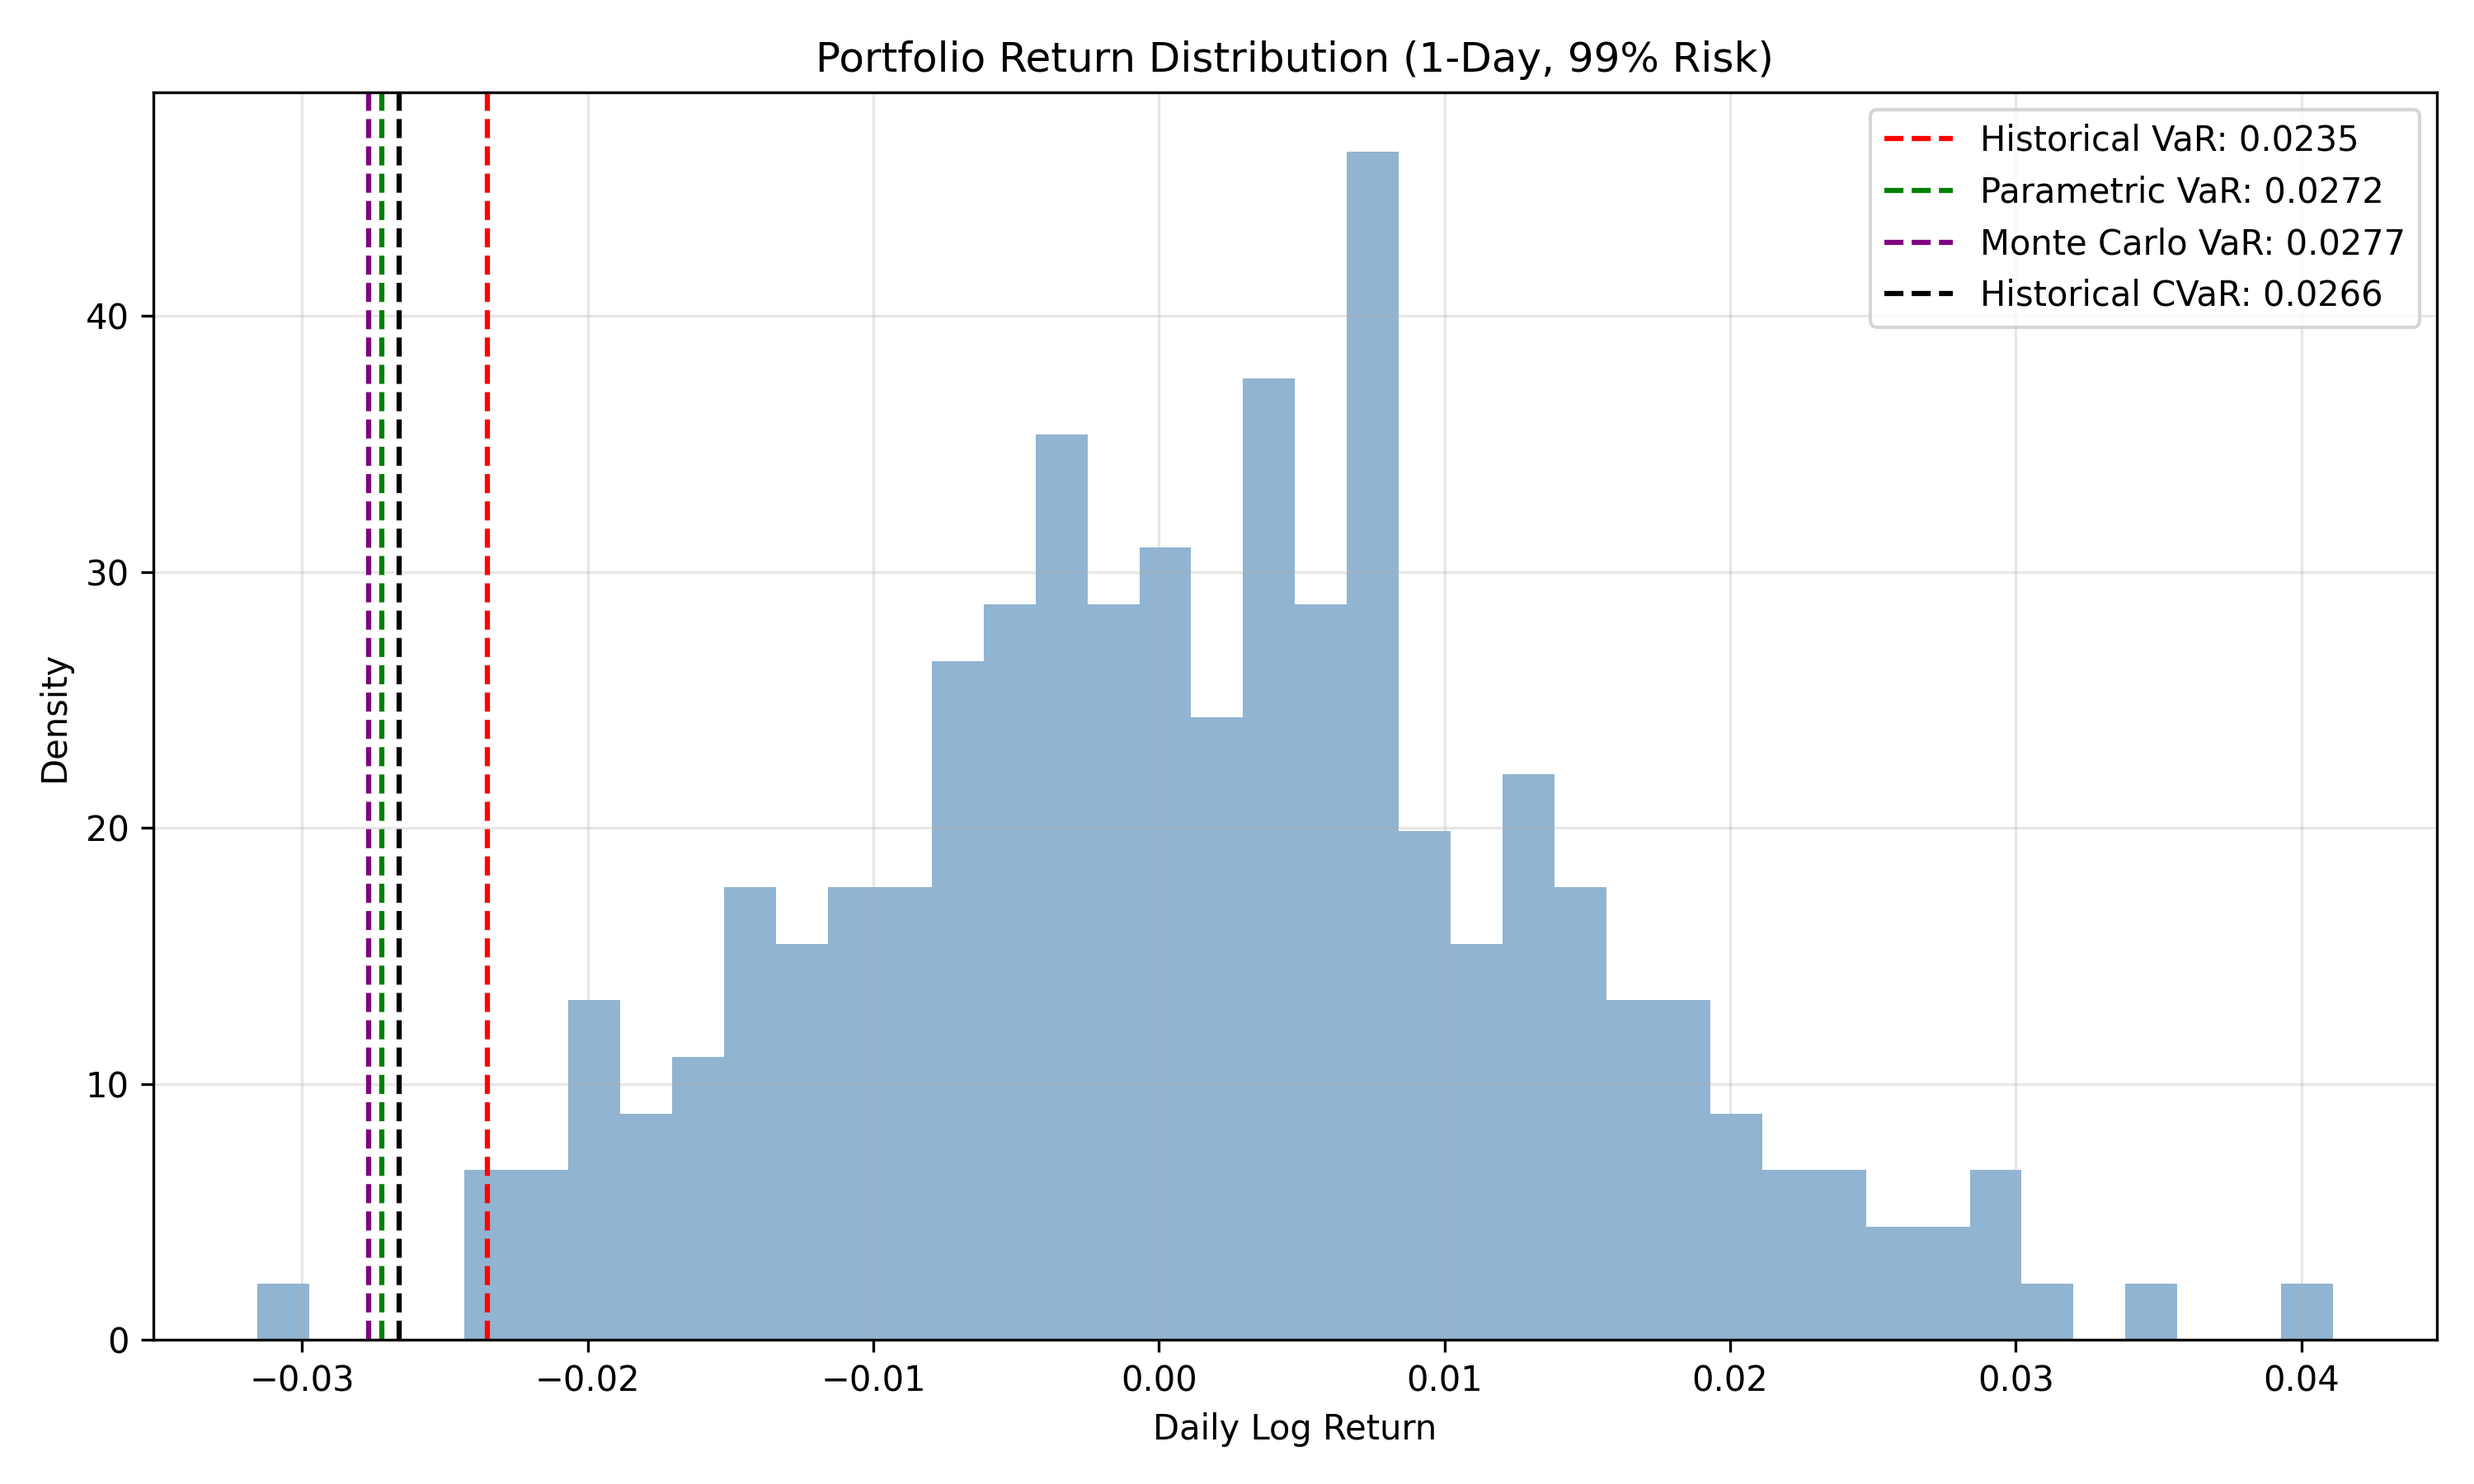
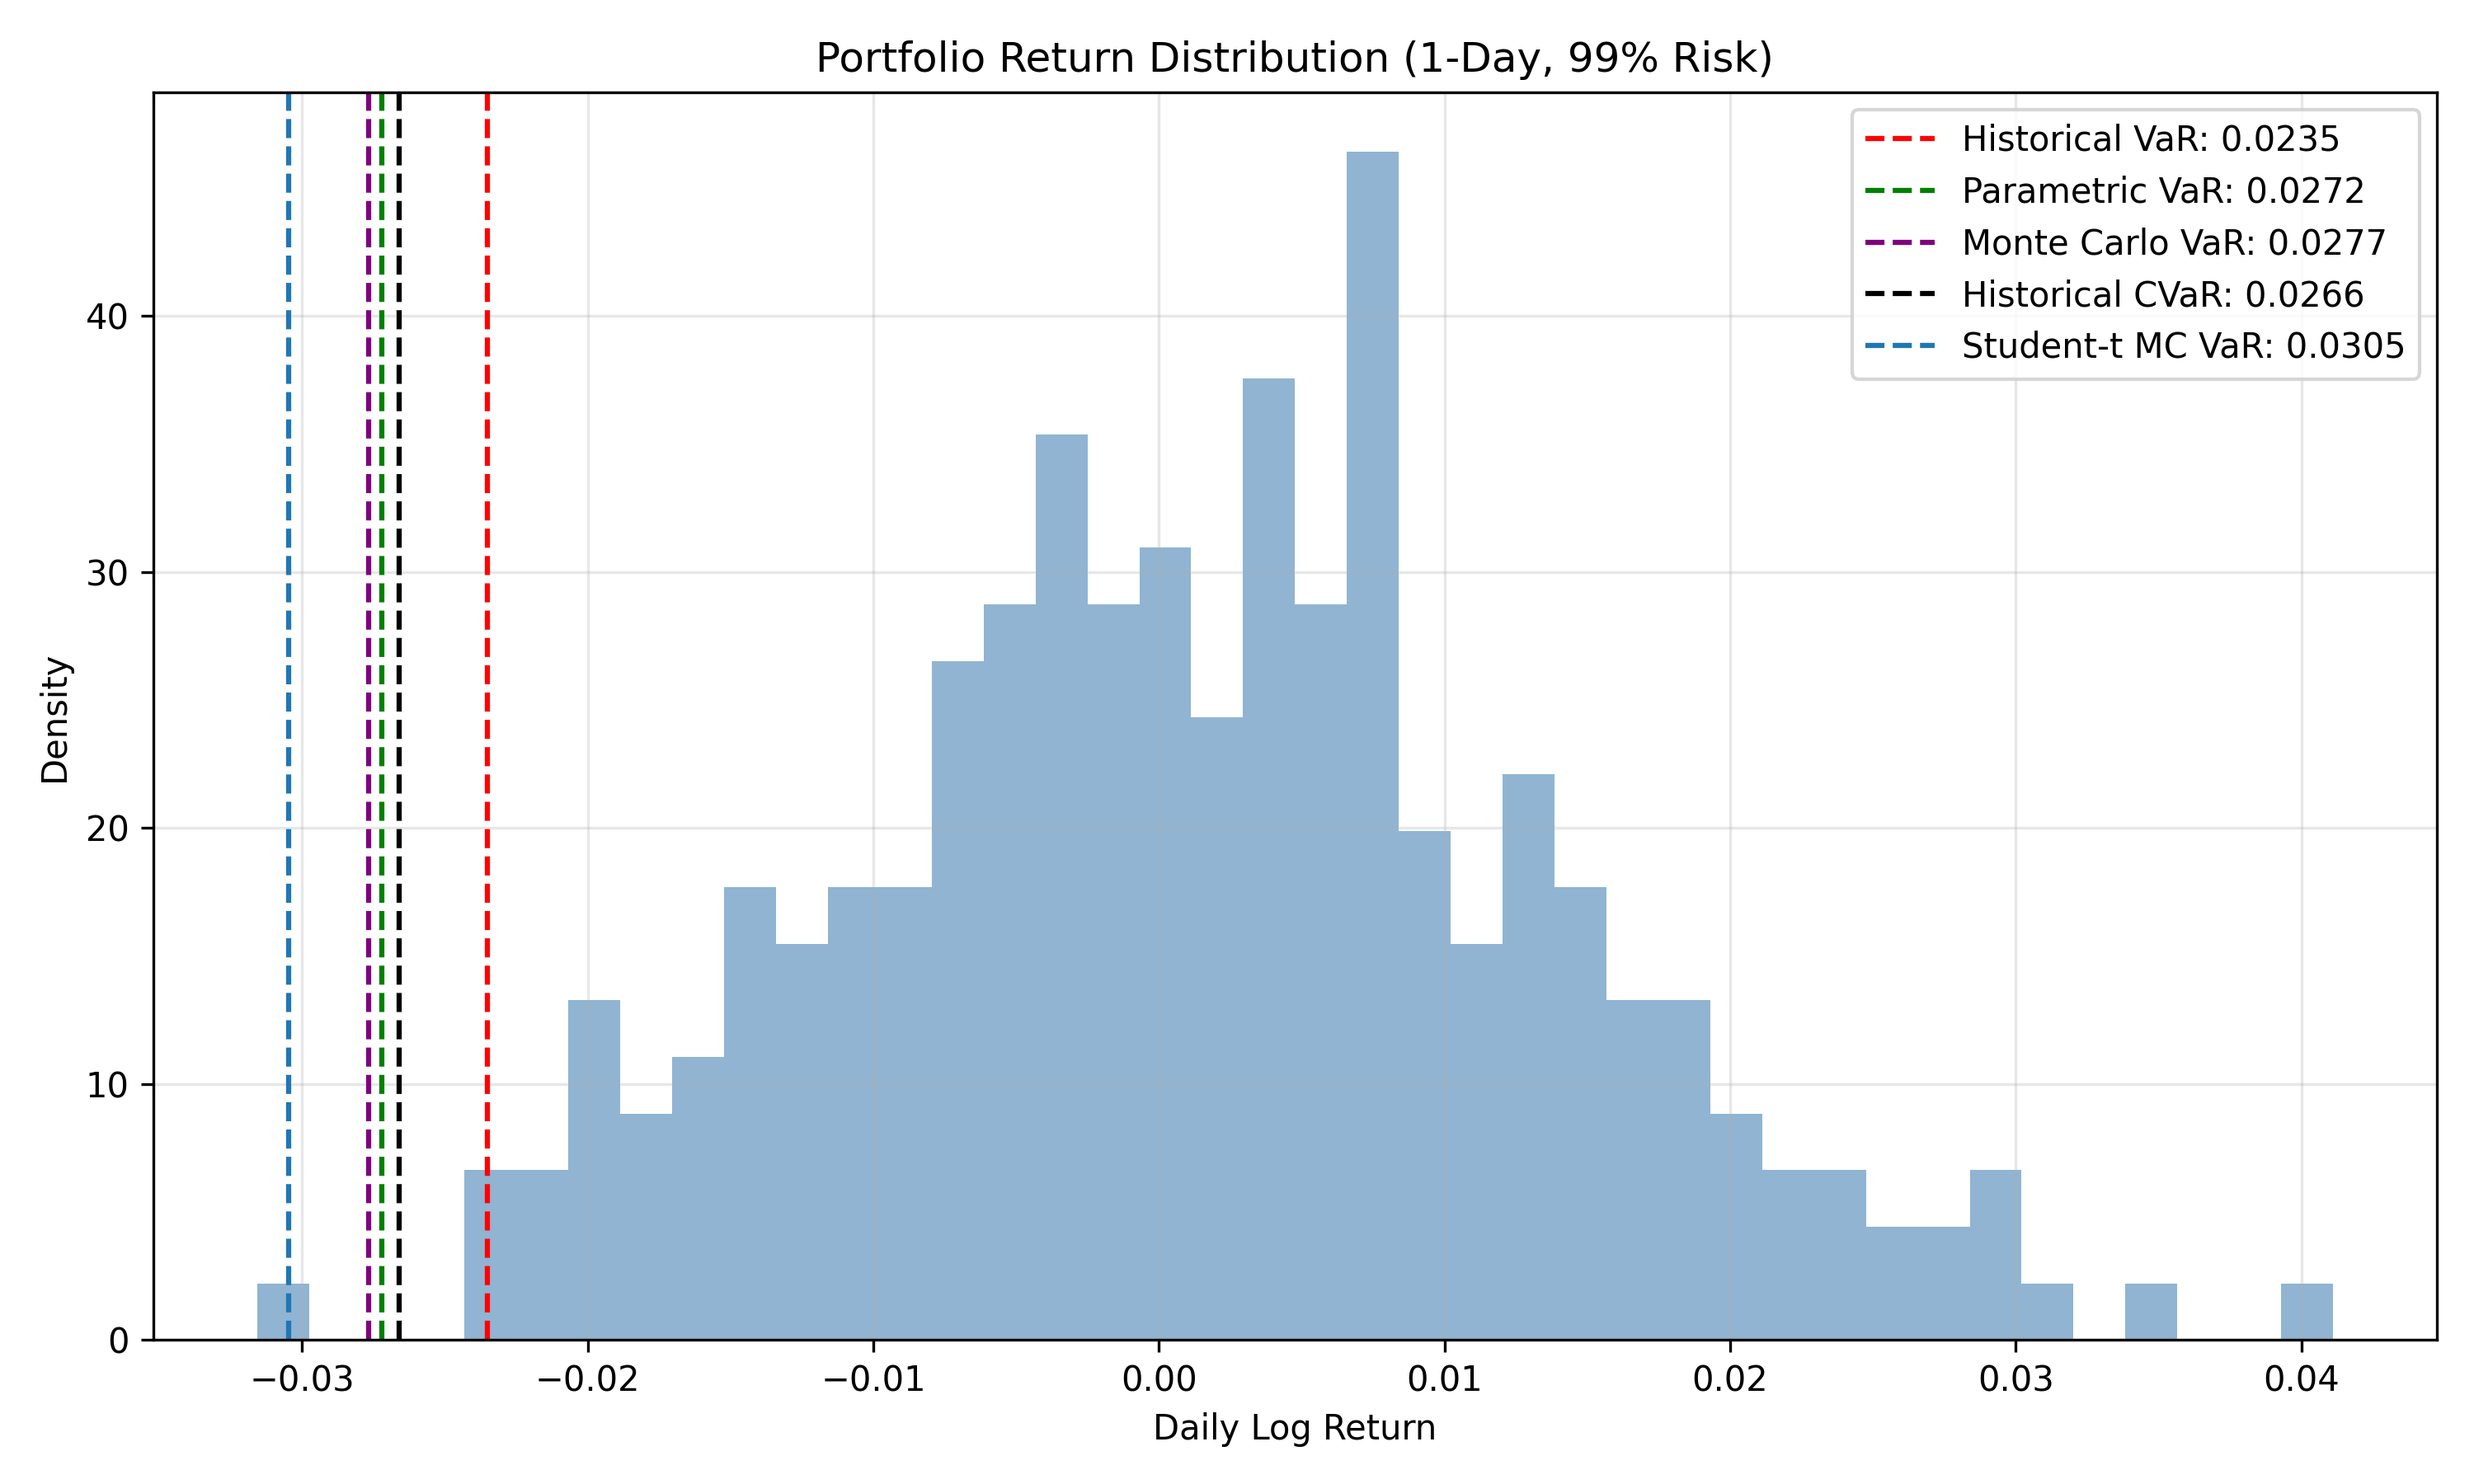
Plot Student-t Monte Carlo VaR

Changed region(s): [[0.744, 0.0622, 0.992, 0.2489]]

diff --git a/notebooks/rolling_backtest.py b/notebooks/rolling_backtest.py
@@ -1,0 +1,124 @@
+import numpy as np
+import matplotlib.pyplot as plt
+
+from src.data_loader import download_adj_close, compute_log_returns
+from src.var_models import portfolio_returns
+from src.backtesting import rolling_historical_var
+from src.var_models import ewma_var
+
+# Load data
+prices = download_adj_close(["AAPL", "MSFT"], start="2023-01-01", end="2024-01-01")
+rets = compute_log_returns(prices)
+
+# Portfolio
+w = np.array([0.5, 0.5])
+p = portfolio_returns(rets, w)
+
+# Rolling VaR
+rolling_var = rolling_historical_var(p, window=60, alpha=0.01)
+
+
+ewma_var_series = ewma_var(p, alpha=0.01, lambda_=0.94)
+
+# Violations
+violations = p < -rolling_var
+
+# Plot
+plt.figure(figsize=(12, 6))
+plt.plot(p.index, p, label="Portfolio Return", alpha=0.5)
+plt.plot(rolling_var.index, -rolling_var, label="Rolling Historical VaR (99%)", color="red")
+
+plt.scatter(p.index[violations], p[violations], color="black", label="Violations")
+
+plt.title("Rolling Historical VaR Backtest")
+plt.legend()
+plt.grid(True, alpha=0.3)
+
+
+plt.plot(ewma_var_series.index, -ewma_var_series,
+         label="EWMA VaR (99%)", color="green")
+
+plt.tight_layout()
+plt.savefig("rolling_var_backtest.png", dpi=300)
+plt.show()
+
+
+# Summary statistics
+total_obs = len(p.dropna())
+valid_var = rolling_var.dropna()
+
+aligned_returns = p.loc[valid_var.index]
+violations = aligned_returns < -valid_var
+
+n_violations = violations.sum()
+expected = len(valid_var) * 0.01
+violation_rate = n_violations / len(valid_var)
+
+print("Total Observations:", len(valid_var))
+print("Violations:", int(n_violations))
+print("Expected Violations:", round(expected, 2))
+print("Violation Rate:", round(violation_rate, 4))
+
+
+# --- EWMA Backtest ---
+ewma_valid = ewma_var_series.dropna()
+aligned_returns_ewma = p.loc[ewma_valid.index]
+ewma_violations = aligned_returns_ewma < -ewma_valid
+
+n_violations_ewma = ewma_violations.sum()
+expected_ewma = len(ewma_valid) * 0.01
+violation_rate_ewma = n_violations_ewma / len(ewma_valid)
+
+print("\nEWMA VaR Backtest:")
+print("Total Observations:", len(ewma_valid))
+print("Violations:", int(n_violations_ewma))
+print("Expected Violations:", round(expected_ewma, 2))
+print("Violation Rate:", round(violation_rate_ewma, 4))
+
+# Kupiec for EWMA
+from scipy.stats import chi2
+import numpy as np
+
+n = len(ewma_valid)
+x = int(n_violations_ewma)
+alpha = 0.01
+p_hat = x / n
+
+if x == 0 or x == n:
+    print("Kupiec test undefined.")
+else:
+    LR = -2 * (
+        (n - x) * np.log((1 - alpha) / (1 - p_hat)) +
+        x * np.log(alpha / p_hat)
+    )
+    p_value = 1 - chi2.cdf(LR, df=1)
+
+    print("Kupiec LR statistic:", round(LR, 4))
+    print("Kupiec p-value:", round(p_value, 6))
+    print("Reject model at 5% level:", p_value < 0.05)
+
+
+
+
+
+from scipy.stats import chi2
+import numpy as np
+
+# Kupiec POF test for rolling VaR
+n = len(valid_var)
+x = int(n_violations)
+alpha = 0.01
+p_hat = x / n
+
+if x == 0 or x == n:
+    print("Kupiec test undefined for edge case.")
+else:
+    LR = -2 * (
+        (n - x) * np.log((1 - alpha) / (1 - p_hat)) +
+        x * np.log(alpha / p_hat)
+    )
+    p_value = 1 - chi2.cdf(LR, df=1)
+
+    print("Kupiec LR statistic:", round(LR, 4))
+    print("Kupiec p-value:", round(p_value, 6))
+    print("Reject model at 5% level:", p_value < 0.05)

diff --git a/src/backtesting.py b/src/backtesting.py
@@ -1,0 +1,76 @@
+from __future__ import annotations
+
+import numpy as np
+import pandas as pd
+from scipy.stats import chi2
+
+
+def count_violations(port_ret: pd.Series, var_value: float) -> int:
+    """
+    Count number of VaR violations.
+    A violation occurs when return < -VaR.
+    """
+    violations = port_ret < -var_value
+    return int(violations.sum())
+
+
+def kupiec_test(
+    port_ret: pd.Series,
+    var_value: float,
+    alpha: float = 0.01
+) -> dict:
+    """
+    Kupiec Proportion of Failures (POF) test.
+    
+    H0: violation probability = alpha
+    """
+
+    n = len(port_ret)
+    x = count_violations(port_ret, var_value)
+
+    p_hat = x / n
+
+    # Likelihood ratio statistic
+    if x == 0 or x == n:
+        return {
+            "violations": x,
+            "expected": n * alpha,
+            "p_value": 0.0,
+            "reject": True
+        }
+
+    LR = -2 * (
+        (n - x) * np.log((1 - alpha) / (1 - p_hat)) +
+        x * np.log(alpha / p_hat)
+    )
+
+    p_value = 1 - chi2.cdf(LR, df=1)
+
+    return {
+        "violations": x,
+        "expected": n * alpha,
+        "p_value": p_value,
+        "reject": p_value < 0.05
+    }
+
+def rolling_historical_var(
+    port_ret: pd.Series,
+    window: int = 60,
+    alpha: float = 0.01
+) -> pd.Series:
+    """
+    Compute rolling historical VaR using a moving window.
+    Returns a Series aligned with port_ret index.
+    """
+
+    rolling_var = []
+
+    for i in range(len(port_ret)):
+        if i < window:
+            rolling_var.append(np.nan)
+        else:
+            window_data = port_ret.iloc[i - window:i]
+            var = -np.quantile(window_data, alpha)
+            rolling_var.append(var)
+
+    return pd.Series(rolling_var, index=port_ret.index)

diff --git a/src/monte_carlo.py b/src/monte_carlo.py
@@ -36,3 +36,47 @@ def monte_carlo_var(
 
     var = -np.quantile(simulated, alpha)
     return float(var)
+
+def monte_carlo_var_student_t(
+    port_ret: pd.Series,
+    alpha: float = 0.01,
+    n_sim: int = 10000,
+    horizon: int = 1,
+    df: float = 5.0,
+    seed: int = 42,
+) -> float:
+    """
+    Monte Carlo VaR using Student-t innovations (fat tails).
+
+    We scale the t-distribution so the simulated returns have approximately the
+    same standard deviation as the historical series.
+
+    df: degrees of freedom (lower = fatter tails). Must be > 2 for finite variance.
+    Returns positive loss number.
+    """
+    if df <= 2:
+        raise ValueError("df must be > 2 for finite variance")
+
+    r = port_ret.dropna().values
+    mu = float(np.mean(r))
+    sigma = float(np.std(r, ddof=1))
+
+    # Student-t with df has variance df/(df-2). Choose scale so Var matches sigma^2.
+    scale = sigma * np.sqrt((df - 2.0) / df)
+
+    rng = np.random.default_rng(seed)
+
+    # Sample t innovations then scale + shift
+    t_samples = rng.standard_t(df, size=n_sim)
+    simulated_1d = mu + scale * t_samples
+
+    # Horizon scaling (approx): sum of iid daily returns
+    if horizon != 1:
+        simulated = np.sum(
+            rng.standard_t(df, size=(n_sim, horizon)), axis=1
+        ) * scale + mu * horizon
+    else:
+        simulated = simulated_1d
+
+    var = -np.quantile(simulated, alpha)
+    return float(var)

diff --git a/tests/quick_test.py b/tests/quick_test.py
@@ -4,6 +4,8 @@ from src.data_loader import download_adj_close, compute_log_returns
 from src.var_models import portfolio_returns, historical_var, parametric_var
 from src.cvar import historical_cvar
 from src.monte_carlo import monte_carlo_var
+from src.backtesting import kupiec_test
+from src.monte_carlo import monte_carlo_var_student_t
 
 prices = download_adj_close(["AAPL", "MSFT"], start="2023-01-01", end="2024-01-01")
 rets = compute_log_returns(prices)
@@ -15,9 +17,18 @@ var_hist_99 = historical_var(p, alpha=0.01)
 var_param_99 = parametric_var(p, alpha=0.01)
 cvar_99 = historical_cvar(p, alpha=0.01)
 var_mc_99 = monte_carlo_var(p, alpha=0.01, n_sim=20000)
-print("Monte Carlo VaR 99% (1-day):", var_mc_99)
 
+
+
+print("Monte Carlo VaR 99% (1-day):", var_mc_99)
+var_t_99 = monte_carlo_var_student_t(p, alpha=0.01, n_sim=20000, df=5)
+print("Student-t Monte Carlo VaR 99% (1-day, df=5):", var_t_99)
 
 print("Parametric VaR 99% (1-day):", var_param_99)
 print("Historical VaR 99% (1-day):", var_hist_99)
 print("Historical CVaR 99% (1-day):", cvar_99)
+
+backtest_hist = kupiec_test(p, var_hist_99, alpha=0.01)
+
+print("Backtest Historical VaR:")
+print(backtest_hist)

diff --git a/notebooks/plot_risk.py b/notebooks/plot_risk.py
@@ -5,6 +5,7 @@ from src.data_loader import download_adj_close, compute_log_returns
 from src.var_models import portfolio_returns, historical_var, parametric_var
 from src.monte_carlo import monte_carlo_var
 from src.cvar import historical_cvar
+from src.monte_carlo import monte_carlo_var, monte_carlo_var_student_t
 
 
 # 1. Load data
@@ -19,6 +20,7 @@ p = portfolio_returns(rets, w)
 var_hist = historical_var(p, alpha=0.01)
 var_param = parametric_var(p, alpha=0.01)
 var_mc = monte_carlo_var(p, alpha=0.01, n_sim=20000)
+var_t = monte_carlo_var_student_t(p, alpha=0.01, n_sim=20000, df=5)
 cvar_hist = historical_cvar(p, alpha=0.01)
 
 # 4. Plot
@@ -36,6 +38,7 @@ plt.axvline(-var_mc, linestyle="--", color="purple",
 
 plt.axvline(-cvar_hist, linestyle="--", color="black",
             label=f"Historical CVaR: {cvar_hist:.4f}")
+plt.axvline(-var_t, linestyle="--", label=f"Student-t MC VaR: {var_t:.4f}")
 
 plt.title("Portfolio Return Distribution (1-Day, 99% Risk)")
 plt.xlabel("Daily Log Return")

diff --git a/src/var_models.py b/src/var_models.py
@@ -38,3 +38,27 @@ def parametric_var(port_ret: pd.Series, alpha: float = 0.01) -> float:
     sigma = float(np.std(r, ddof=1))
     z = float(norm.ppf(alpha))
     return float(-(mu + z * sigma))
+def ewma_var(
+    port_ret: pd.Series,
+    alpha: float = 0.01,
+    lambda_: float = 0.94
+) -> pd.Series:
+    """
+    Rolling EWMA volatility VaR.
+    Returns time series of VaR values.
+    """
+
+    from scipy.stats import norm
+
+    r = port_ret.dropna()
+    var_series = []
+    sigma2 = r.iloc[0] ** 2  # initialize variance
+
+    z = norm.ppf(alpha)
+
+    for ret in r:
+        sigma2 = lambda_ * sigma2 + (1 - lambda_) * ret ** 2
+        sigma = np.sqrt(sigma2)
+        var_series.append(-(z * sigma))
+
+    return pd.Series(var_series, index=r.index)
